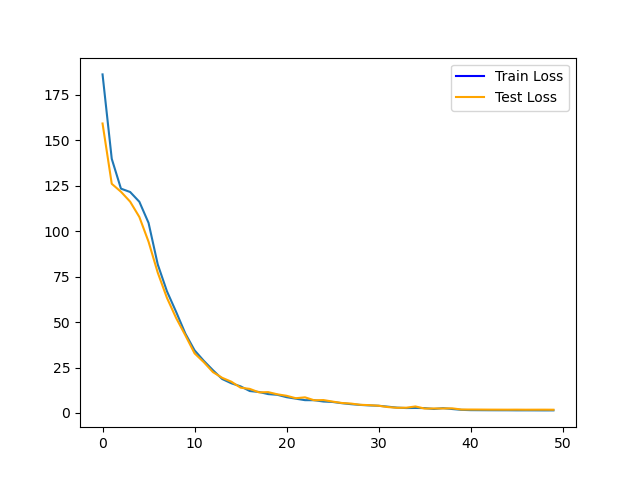
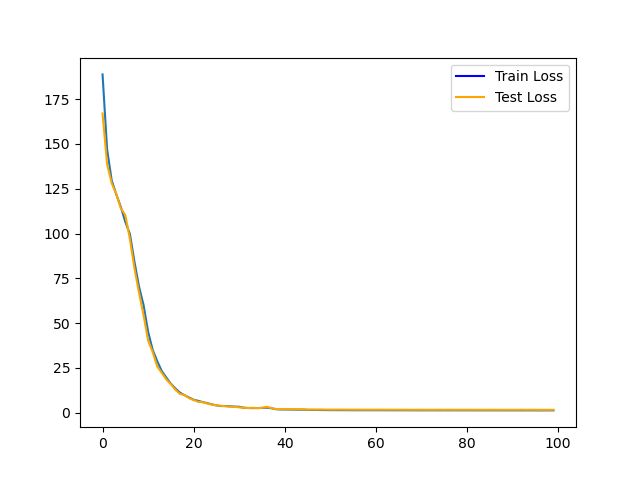
minor tweaks and more TODOs

diff --git a/dynamicspredict.py b/dynamicspredict.py
@@ -40,13 +40,20 @@ def denormalize_data(norm_tensor, col, tensor_max, tensor_min):
 """
 
 
+col_mean_data = []
+col_std_data = []
+col_mean_tgt = []
+col_std_tgt = []
+
+
 # remove all outliers greater than 5 standard deviations away from center
 def remove_outliers(data_tensor, target_tensor):
     print("removing outliers")
     rows_to_elim = []
 
-    # loop thru each column, get mean and std of column
+    # loop thru each data column, get mean and std of column
     numcols = data_tensor.size()[1]
+    print("number of columns:", numcols)
     numrows = data_tensor.size()[0]
     for colnum in range(0, numcols):
         temp_vals = np.empty(numrows)
@@ -55,9 +62,46 @@ def remove_outliers(data_tensor, target_tensor):
             temp_vals[rownum] = data_tensor[rownum][colnum]
 
         col_tensor = torch.from_numpy(temp_vals).float()
+        if(colnum == 1):
+            for temprownum  in range(0, numrows):
+                print("row: ", temprownum, "value:", temp_vals[temprownum])
         # get mean and std of data tensor
         col_mean = torch.mean(col_tensor)
         col_std = torch.std(col_tensor)
+        # col_mean_data.append(col_mean)
+        # col_std_data.append(col_std)
+        offset = col_std * 4
+        print("column mean:", col_mean)
+        print("column std:", col_std)
+        # print("outlier offset:", offset)
+
+        # go through and identify outliers
+        for rownum in range(0, numrows):
+            element = data_tensor[rownum][colnum]
+            if element <= col_mean-offset or element >= col_mean+offset:
+                # TODO: Change up order of columns see if its still all one column
+                print("outlier element:", element, "from column:", colnum)
+                if not rownum in rows_to_elim:
+                    print("eliminating row:", rownum)
+                    # print(data_tensor[rownum])
+                    rows_to_elim.append(rownum)
+
+    # loop thru each target column, get mean and std of column
+    numcols = target_tensor.size()[1]
+    numrows = target_tensor.size()[0]
+    # print(numcols)
+    for colnum in range(0, numcols):
+        temp_vals = np.empty(numrows)
+        # generate temp column tensor
+        for rownum in range(0, numrows):
+            temp_vals[rownum] = target_tensor[rownum][colnum]
+
+        col_tensor = torch.from_numpy(temp_vals).float()
+        # get mean and std of data tensor
+        col_mean = torch.mean(col_tensor)
+        col_std = torch.std(col_tensor)
+        # col_mean_tgt.append(col_mean)
+        # col_std_tgt.append(col_std)
         offset = col_std * 4
         # print("column mean:", col_mean)
         # print("column std:", col_std)
@@ -65,8 +109,9 @@ def remove_outliers(data_tensor, target_tensor):
 
         # go through and identify outliers
         for rownum in range(0, numrows):
-            element = data_tensor[rownum][colnum]
-            if element <= col_mean-offset or element >= col_mean+offset:
+            element = target_tensor[rownum][colnum]
+            if element <= col_mean - offset or element >= col_mean + offset:
+                print("outlier element:", element, "from column:", colnum)
                 if not rownum in rows_to_elim:
                     print("eliminating row:", rownum)
                     # print(data_tensor[rownum])
@@ -91,12 +136,6 @@ def remove_outliers(data_tensor, target_tensor):
     return data_tensor, target_tensor
 
 
-col_mean_data=[]
-col_std_data=[]
-col_mean_tgt=[]
-col_std_tgt=[]
-
-
 # z_score normalization on data & targets
 def z_score(data_tensor, target_tensor):
     # z-score on data
@@ -115,13 +154,17 @@ def z_score(data_tensor, target_tensor):
         col_std = torch.std(col_tensor)
         col_mean_data.append(col_mean)
         col_std_data.append(col_std)
+        # col_std = col_std_data[colnum]
+        # col_mean = col_mean_data[colnum]
         print("column mean:", col_mean)
         print("column std:", col_std)
 
-        # go through and identify outliers
+        # normalize
+        # TODO: MAKE THIS NOT WRONG
         for rownum in range(0, numrows):
             data_tensor[rownum][colnum] -= col_mean
             data_tensor[rownum][colnum] /= col_std
+
     # z-score norm on targets
     print("targets:")
     numcols = target_tensor.size()[1]
@@ -138,10 +181,13 @@ def z_score(data_tensor, target_tensor):
         tgt_std = torch.std(col_tensor)
         col_mean_tgt.append(tgt_mean)
         col_std_tgt.append(tgt_std)
+        # tgt_std = col_std_tgt[colnum]
+        # tgt_mean = col_mean_tgt[colnum]
         print("column mean:", tgt_mean)
         print("column std:", tgt_std)
 
-        # go through and identify outliers
+        # normalize
+        # TODO: MAKE THIS NOT WRONG
         for rownum in range(0, numrows):
             target_tensor[rownum] -= tgt_mean
             target_tensor[rownum] /= tgt_std
@@ -250,6 +296,10 @@ class simdata(Dataset):
         # concat states and deltas
         data = torch.cat((states, actions), dim=1)
         data = data[:-1]
+
+        # temparraything = [0, 2, 3, 4, 5, 6, 7, 8, 9, 1]
+        # data = torch.index_select(data, 1, torch.LongTensor(temparraything))
+
         targets = deltas
         print(targets)
         # print(deltas.size())
@@ -333,16 +383,16 @@ def my_collate(batch):
 
 
 # variables and things
-epochs = 50
+epochs = 100
 split = 0.7
 bs = 16
-lr = 0.05
+lr = 0.04
 
 dataset = simdata(root_dir='./data/simdata')
 print("dataset length:")
 print(len(dataset))
-print(math.floor(split*len(dataset)))
-print(math.ceil((1-split)*len(dataset)))
+# print(math.floor(split*len(dataset)))
+# print(math.ceil((1-split)*len(dataset)))
 train_set, test_set = random_split(dataset, [math.floor(split*len(dataset)), math.ceil((1-split)*len(dataset))])
 print("train_set length:")
 print(len(train_set))
@@ -350,11 +400,11 @@ print("test_set length:")
 print(len(test_set))
 
 # train_set_len = int(split*len(dataset))
-model = testNet(10, 100, 2, 6)
+model = testNet(10, 50, 2, 6)
 # print(model)
 criterion = nn.MSELoss()
 optimizer = optim.Adam(model.parameters(), lr=lr)
-scheduler = lr_scheduler.ReduceLROnPlateau(optimizer, 'min', factor=0.2, patience=2)
+scheduler = lr_scheduler.ReduceLROnPlateau(optimizer, 'min', factor=0.5, patience=2)
 
 test_errors = []
 train_errors = []
@@ -389,6 +439,7 @@ for epoch in range(epochs):
         loss = criterion(outputs.float(), targets.float())
         test_error += loss.item() / (len(testLoader))
 
+    # step lr scheduler
     scheduler.step(test_error)
 
     print(f"Epoch {epoch + 1}, Train loss: {train_error}, Test loss: {test_error}")
@@ -437,6 +488,9 @@ ax1.set_xlabel("% difference between predicted and target value")
 ax1.set_ylabel("number of occurrences")
 plt.savefig('diffpercent.png')
 plt.show()
+
+# true error vs % error
+
 
 # with torch.no_grad():
     # for data, targets in trainLoader:
